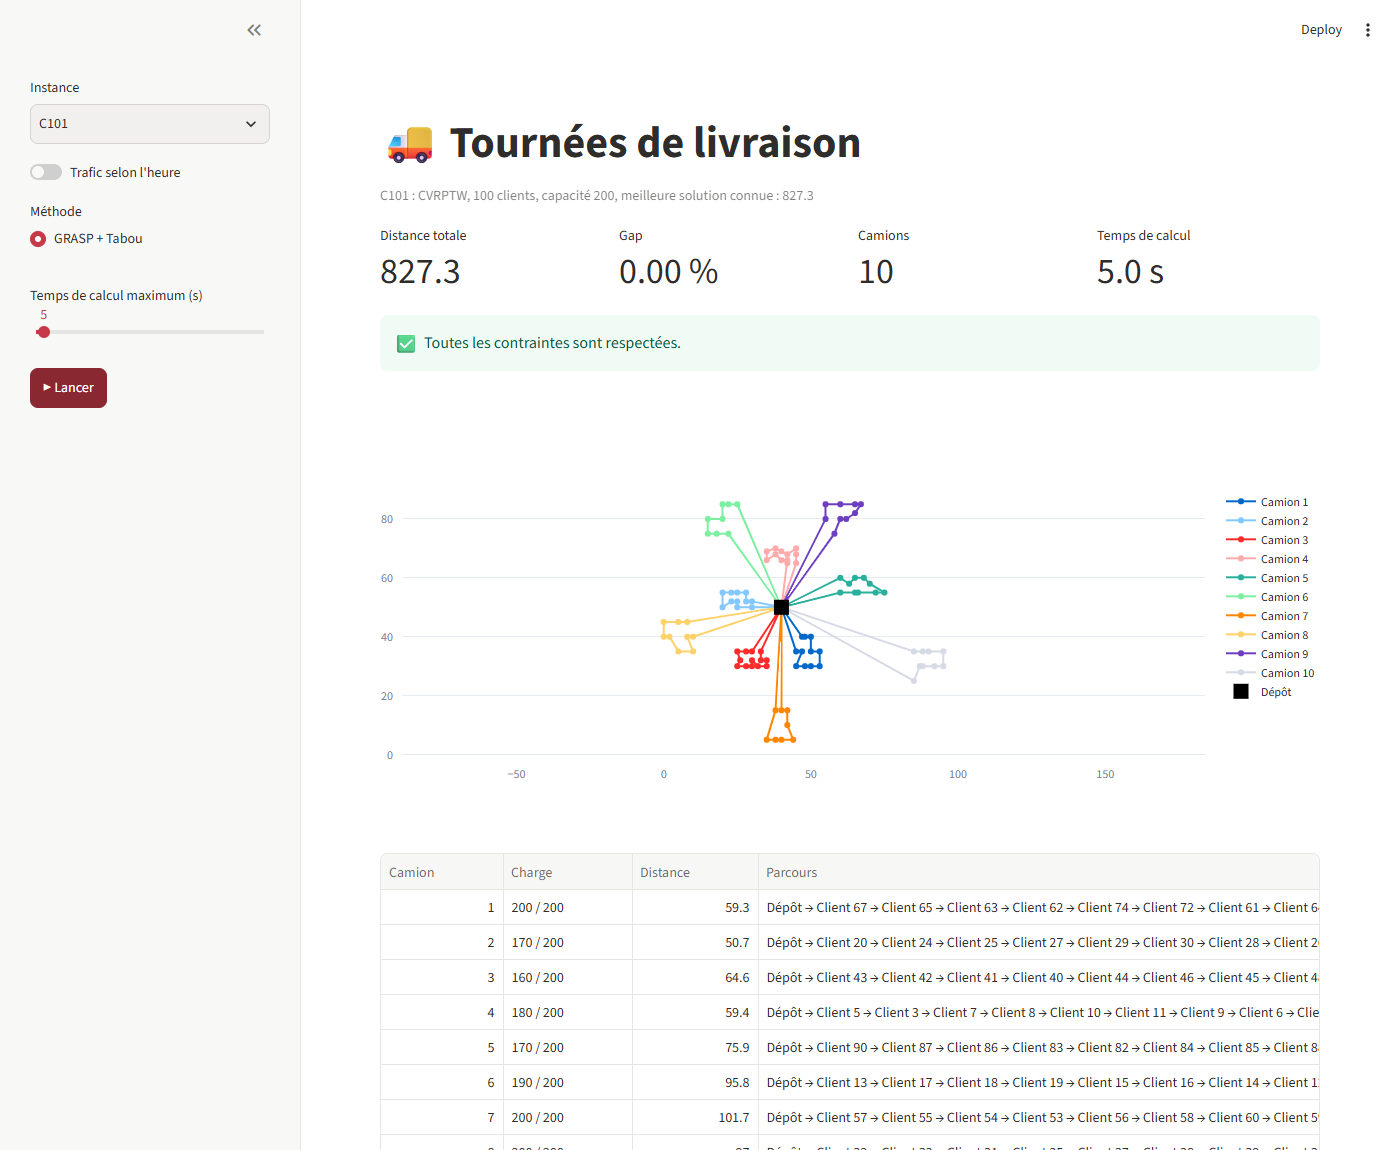
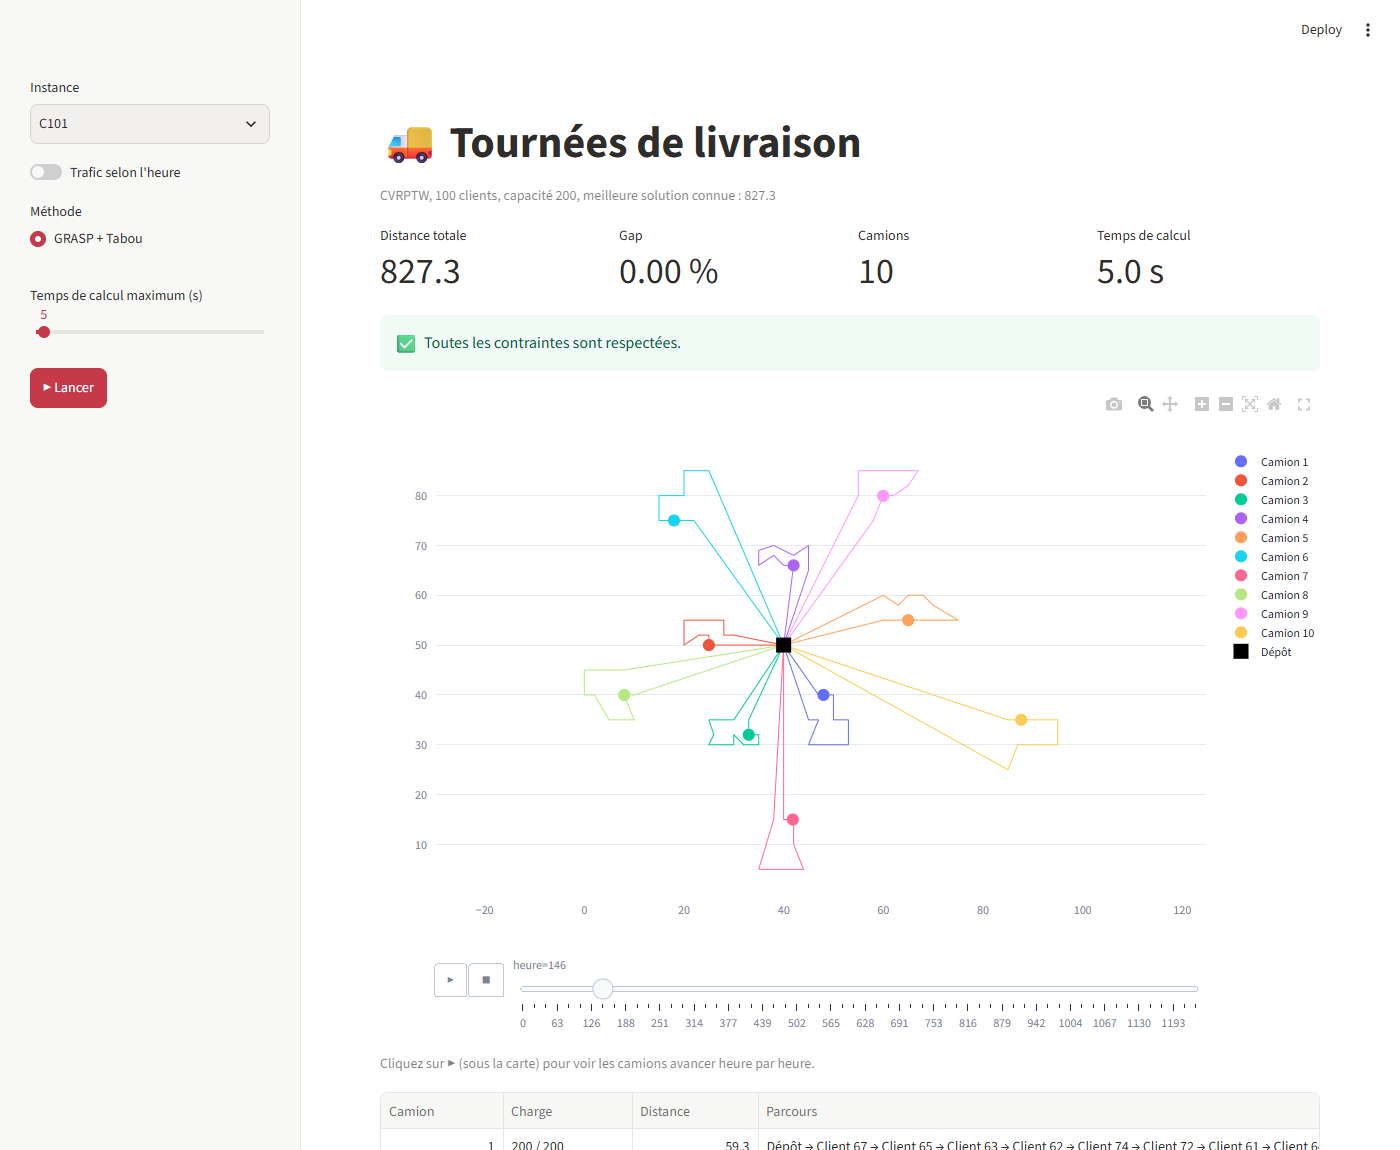
Interface : suivi 2D des camions dans la carte des tournées
La carte des tournées devient aussi un suivi 2D : le bouton ▶ fait avancer les
camions heure par heure le long de leur tournée (position calculée avec np.interp,
camion immobile pendant l'attente et la livraison). Une seule figure plotly express,
un camion et sa tournée de la même couleur. app.py : 90 lignes.
Notebook (partie 10), GUIDE_DU_CODE, README et capture mis à jour.

diff --git a/app.py b/app.py
@@ -1,10 +1,11 @@
 """
-app.py - L'interface : choisir une instance et une méthode, lancer, voir les tournées.
+app.py - L'interface : choisir une instance et une méthode, lancer, voir et suivre les tournées.
 Lancement : streamlit run app.py   (ou double-clic sur lancer_interface.bat)
 """
 
+import numpy as np
 import pandas as pd
-import plotly.graph_objects as go
+import plotly.express as px
 import streamlit as st
 
 from algorithmes.methodes import GRASP_TABOU, PLNE, lancer
@@ -15,24 +16,21 @@ st.set_page_config(page_title="Tournées de livraison", page_icon="🚚", layout
 st.title("🚚 Tournées de livraison")
 
 # 1. Les choix, à gauche
-EXEMPLE = "Exemple du livrable 1"
 chemins = {i["nom"]: i["chemin"] for i in lister_instances()}
-nom = st.sidebar.selectbox("Instance", [EXEMPLE] + list(chemins))
-inst = exemple_livrable1() if nom == EXEMPLE else charger_instance(chemins[nom])
+nom = st.sidebar.selectbox("Instance", ["Exemple du livrable 1"] + list(chemins))
+inst = charger_instance(chemins[nom]) if nom in chemins else exemple_livrable1()
 if st.sidebar.toggle("Trafic selon l'heure"):
     inst["trafic"] = inst.get("profil_trafic", PROFIL_TRAFIC_DEFAUT)
 methode = st.sidebar.radio("Méthode", [GRASP_TABOU] + ([PLNE] if inst["n"] <= 15 else []))
 temps_max = st.sidebar.slider("Temps de calcul maximum (s)", 1, 120, 10)
-
-st.caption(f"{inst['nom']} : {inst['type']}, {inst['n']} clients, capacité {inst['capacite']:.0f}, "
-           f"meilleure solution connue : {inst['bks'] or 'aucune (instance inventée)'}")
+st.caption(f"{inst['type']}, {inst['n']} clients, capacité {inst['capacite']:.0f}, "
+           f"meilleure solution connue : {inst['bks'] or 'aucune'}")
 if not st.sidebar.button("▶ Lancer", type="primary"):
     st.info("Choisissez une instance et une méthode à gauche, puis cliquez sur ▶ Lancer.")
     st.stop()
 
 # 2. La résolution, puis la vérification de toutes les contraintes
-with st.spinner(f"{methode} en cours (au plus {temps_max} s)..."):
-    routes, temps = lancer(methode, inst, temps_max)
+routes, temps = lancer(methode, inst, temps_max)
 ev = evaluer(inst, routes)
 
 # 3. Le résultat
@@ -45,20 +43,44 @@ c[3].metric("Temps de calcul", f"{temps:.1f} s")
 if ev["realisable"]:
     st.success("✅ Toutes les contraintes sont respectées.")
 else:
-    st.error("❌ Contraintes non respectées : " + " ; ".join(ev["violations"][:10]))
+    st.error("❌ " + " ; ".join(ev["violations"][:10]))
 
-# La carte : une ligne par camion, le dépôt en carré noir
-xy, carte = inst["coords"], go.Figure()
+# 4. Le suivi 2D : position de chaque camion à 60 heures de la journée.
+#    Un camion va en ligne droite d'un lieu au suivant, et reste sur place pendant
+#    l'attente et la livraison (np.interp interpole entre ces points de passage).
+xy = inst["coords"]
+heures = np.linspace(min(t["depart"] for t in ev["tournees"]), max(t["retour"] for t in ev["tournees"]), 60)
+lignes = []
 for t in ev["tournees"]:
-    chemin = [0] + t["clients"] + [0]
-    carte.add_trace(go.Scatter(x=xy[chemin, 0], y=xy[chemin, 1], mode="lines+markers",
-                               name=f"Camion {t['numero']}"))
-carte.add_trace(go.Scatter(x=xy[:1, 0], y=xy[:1, 1], mode="markers", name="Dépôt",
-                           marker=dict(symbol="square", size=15, color="black")))
-carte.update_yaxes(scaleanchor="x")                     # même échelle en x et en y
-st.plotly_chart(carte, width="stretch")
+    lieux, passages = [0], [t["depart"]]                # départ du dépôt
+    for a in t["arrets"]:                               # arrivée chez le client, puis fin de livraison
+        lieux += [a["client"], a["client"]]
+        passages += [a["arrivee"], a["fin"]]
+    lieux.append(0)                                     # retour au dépôt
+    passages.append(t["retour"])
+    for h in heures:
+        lignes.append({"heure": round(h), "camion": f"Camion {t['numero']}",
+                       "x": np.interp(h, passages, xy[lieux, 0]), "y": np.interp(h, passages, xy[lieux, 1])})
 
-# Le détail de chaque tournée
+couleurs = px.colors.qualitative.Plotly                # la même couleur pour un camion et sa tournée
+marge = 0.05 * np.ptp(xy)
+suivi = px.scatter(pd.DataFrame(lignes), x="x", y="y", color="camion", animation_frame="heure",
+                   color_discrete_sequence=couleurs, labels={"x": "", "y": "", "camion": ""},
+                   range_x=[xy[:, 0].min() - marge, xy[:, 0].max() + marge],
+                   range_y=[xy[:, 1].min() - marge, xy[:, 1].max() + marge], height=650)
+suivi.update_traces(marker_size=12)
+for i, t in enumerate(ev["tournees"]):                  # les tournées prévues, en trait fin
+    chemin = [0] + t["clients"] + [0]
+    suivi.add_scatter(x=xy[chemin, 0], y=xy[chemin, 1], mode="lines", showlegend=False,
+                      line=dict(width=1, color=couleurs[i % len(couleurs)]))
+suivi.add_scatter(x=xy[:1, 0], y=xy[:1, 1], mode="markers", name="Dépôt",
+                  marker=dict(symbol="square", size=15, color="black"))
+suivi.update_yaxes(scaleanchor="x")                     # même échelle en x et en y
+suivi.update_layout(showlegend=ev["nb_vehicules"] <= 20)
+st.plotly_chart(suivi, width="stretch")
+st.caption("Cliquez sur ▶ (sous la carte) pour voir les camions avancer heure par heure.")
+
+# 5. Le détail de chaque tournée
 nom_lieu = inst.get("villes") or ["Dépôt"] + [f"Client {i}" for i in range(1, inst["n"] + 1)]
 st.dataframe(pd.DataFrame([{
     "Camion": t["numero"],

diff --git a/GUIDE_DU_CODE.md b/GUIDE_DU_CODE.md
@@ -506,5 +506,8 @@ L'algorithme l'utilise pour vérifier les fenêtres de temps (`trajet()`), et `e
 le trafic, la méthode (GRASP + Tabou, ou PLNE jusqu'à 15 clients) et le temps de calcul. Après
 ▶ Lancer, `app.py` appelle `lancer(...)` puis `evaluer(...)`, et affiche la distance, le gap,
 le nombre de camions, le temps, les contraintes respectées ou non, la carte des tournées et
-le parcours de chaque camion. Tout tient dans `app.py` (environ 70 lignes, sans logique de
-calcul) : il n'y a rien à connaître de plus pour répondre sur la méthode.
+le parcours de chaque camion. La carte est aussi un **suivi 2D** : à 60 heures de la journée,
+on calcule la position de chaque camion avec `np.interp` (il va en ligne droite d'un lieu au
+suivant et reste sur place pendant l'attente et la livraison), et le bouton ▶ fait défiler ces
+heures. Tout tient dans `app.py` (environ 90 lignes, sans logique de calcul) : il n'y a rien à
+connaître de plus pour répondre sur la méthode.

diff --git a/README.md b/README.md
@@ -22,7 +22,7 @@ des solutions, la recherche tabou les améliore, et on recommence tant qu'il res
 | La PLNE du livrable 1, résolue par CBC | `algorithmes/plne.py` |
 | Le benchmark sur les instances de référence VRPLIB (gap) | `benchmark_vrplib.py` |
 | L'étude statistique (robustesse, convergence, taille, sensibilité) | `etude_statistique.py` |
-| Une interface web simple pour lancer une méthode et voir les tournées | `app.py` |
+| Une interface web simple pour lancer une méthode, voir les tournées et suivre les camions en 2D | `app.py` |
 | L'explication de chaque partie du code | **[`GUIDE_DU_CODE.md`](GUIDE_DU_CODE.md)** |
 
 ## Installation
